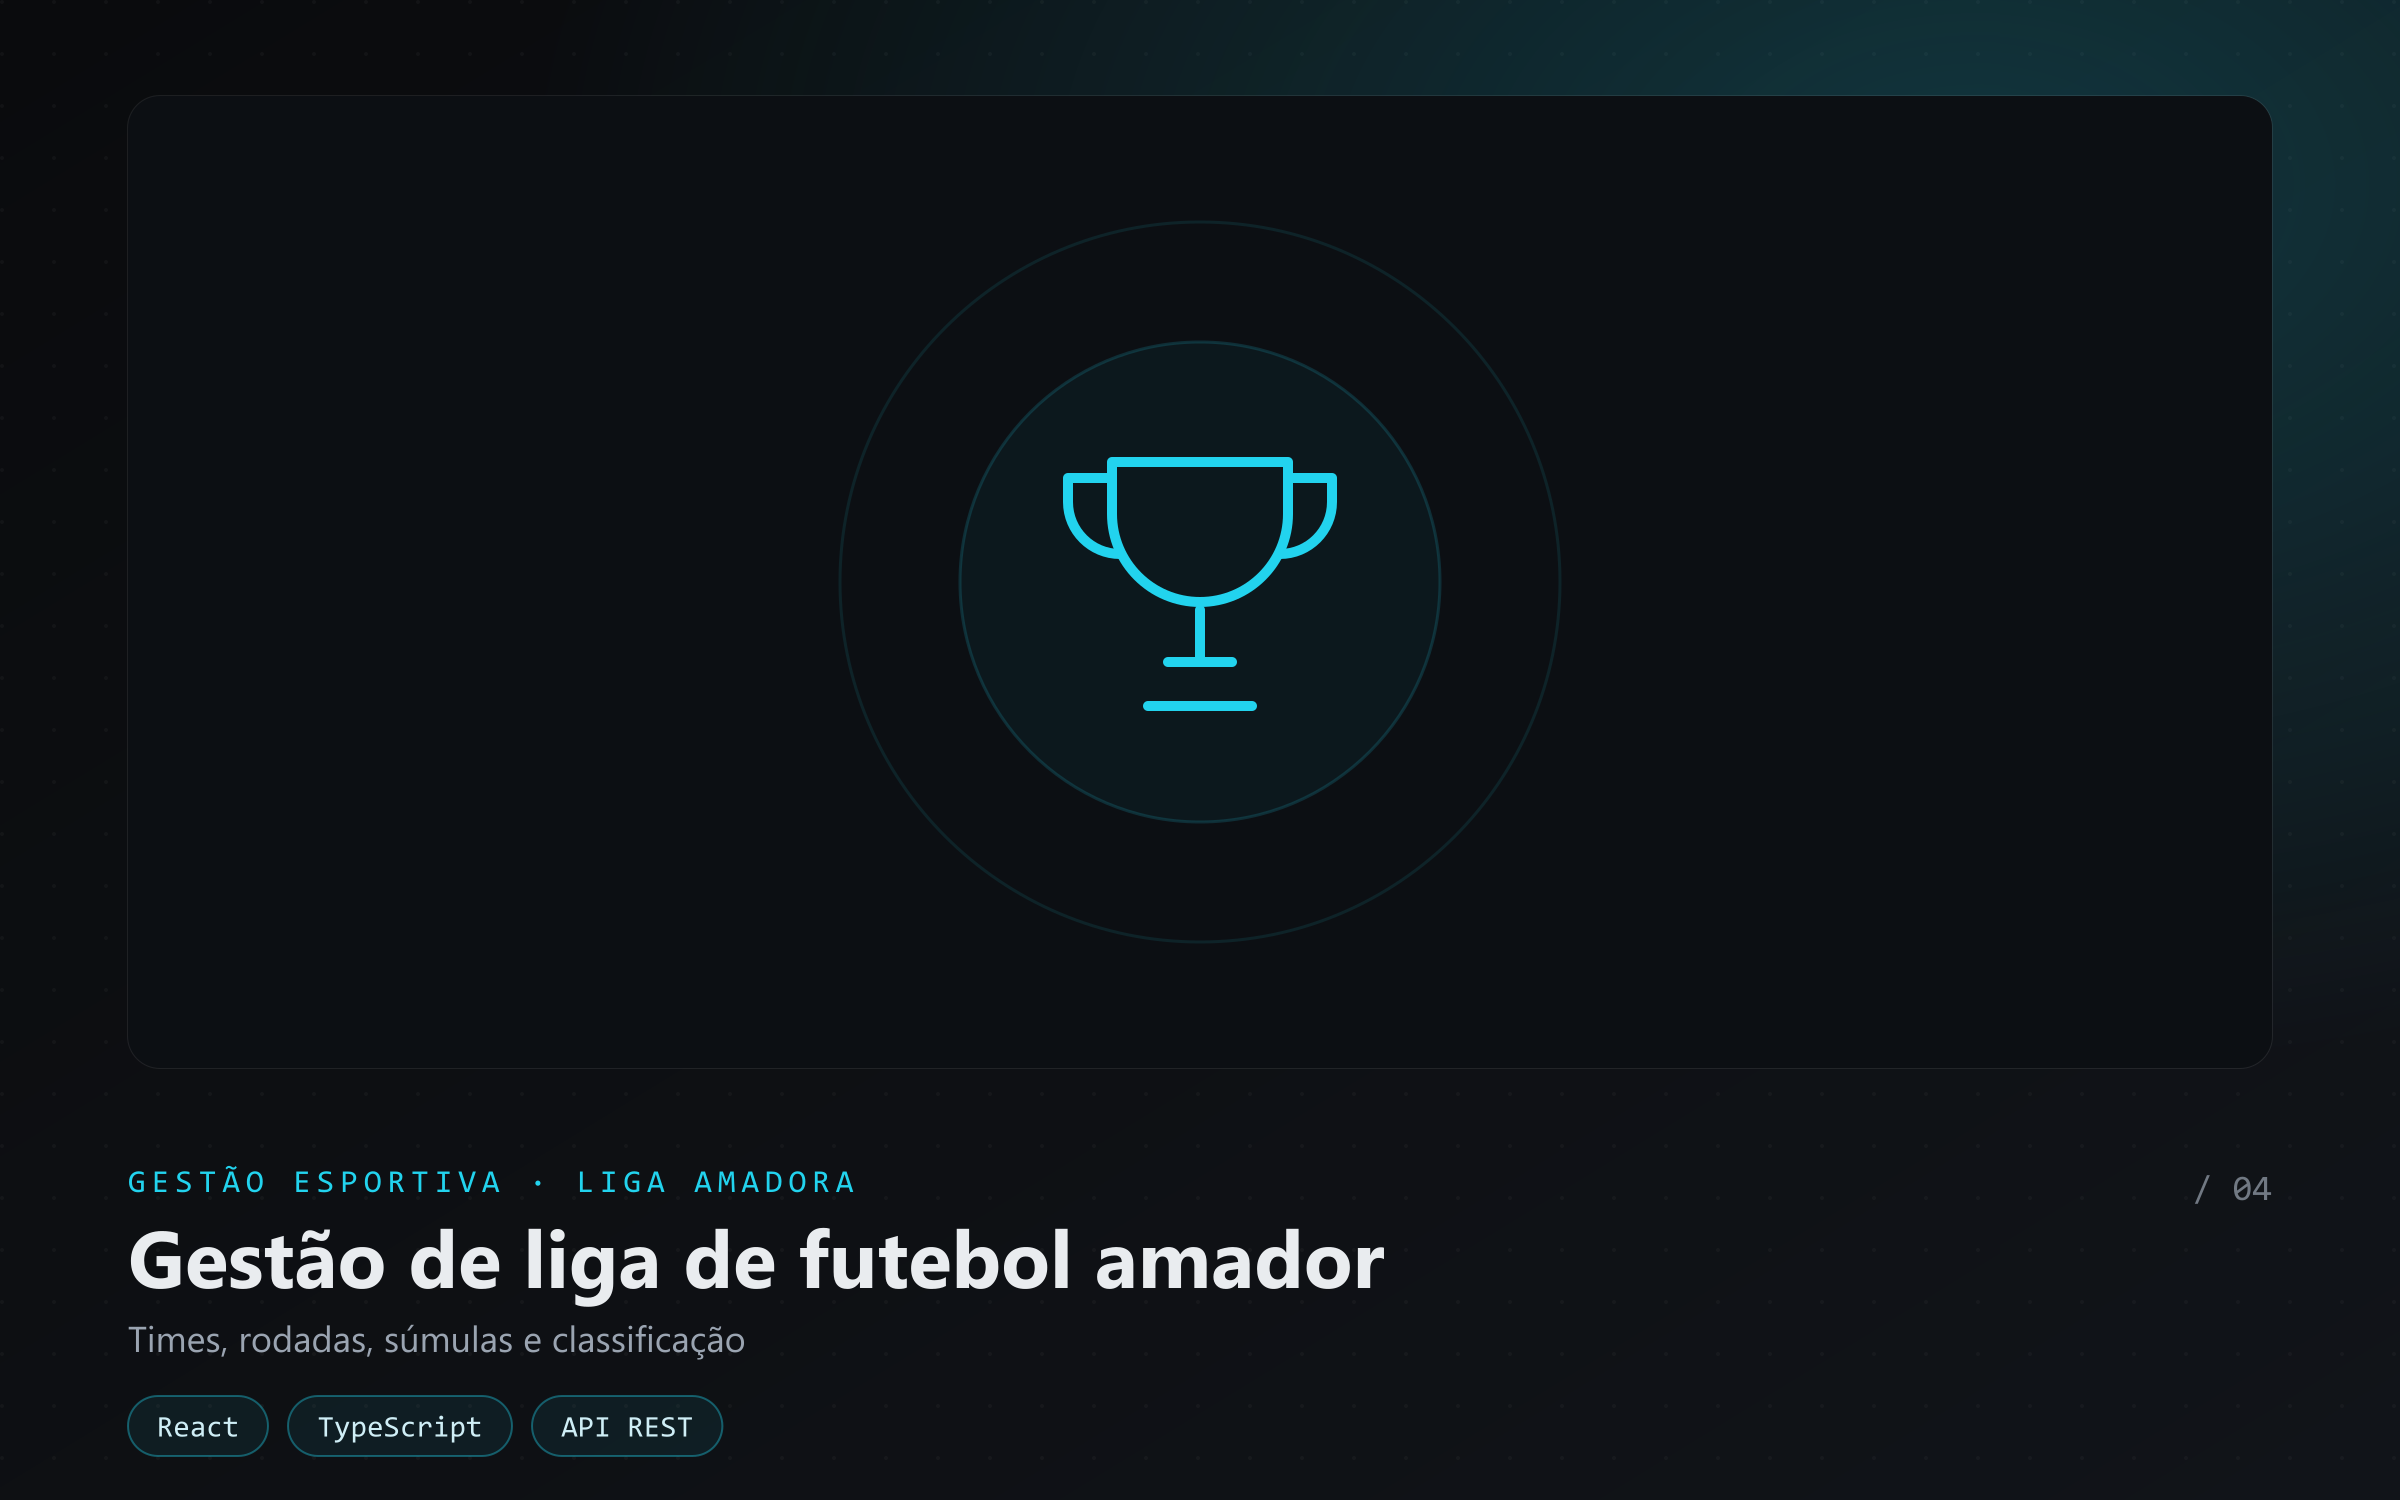
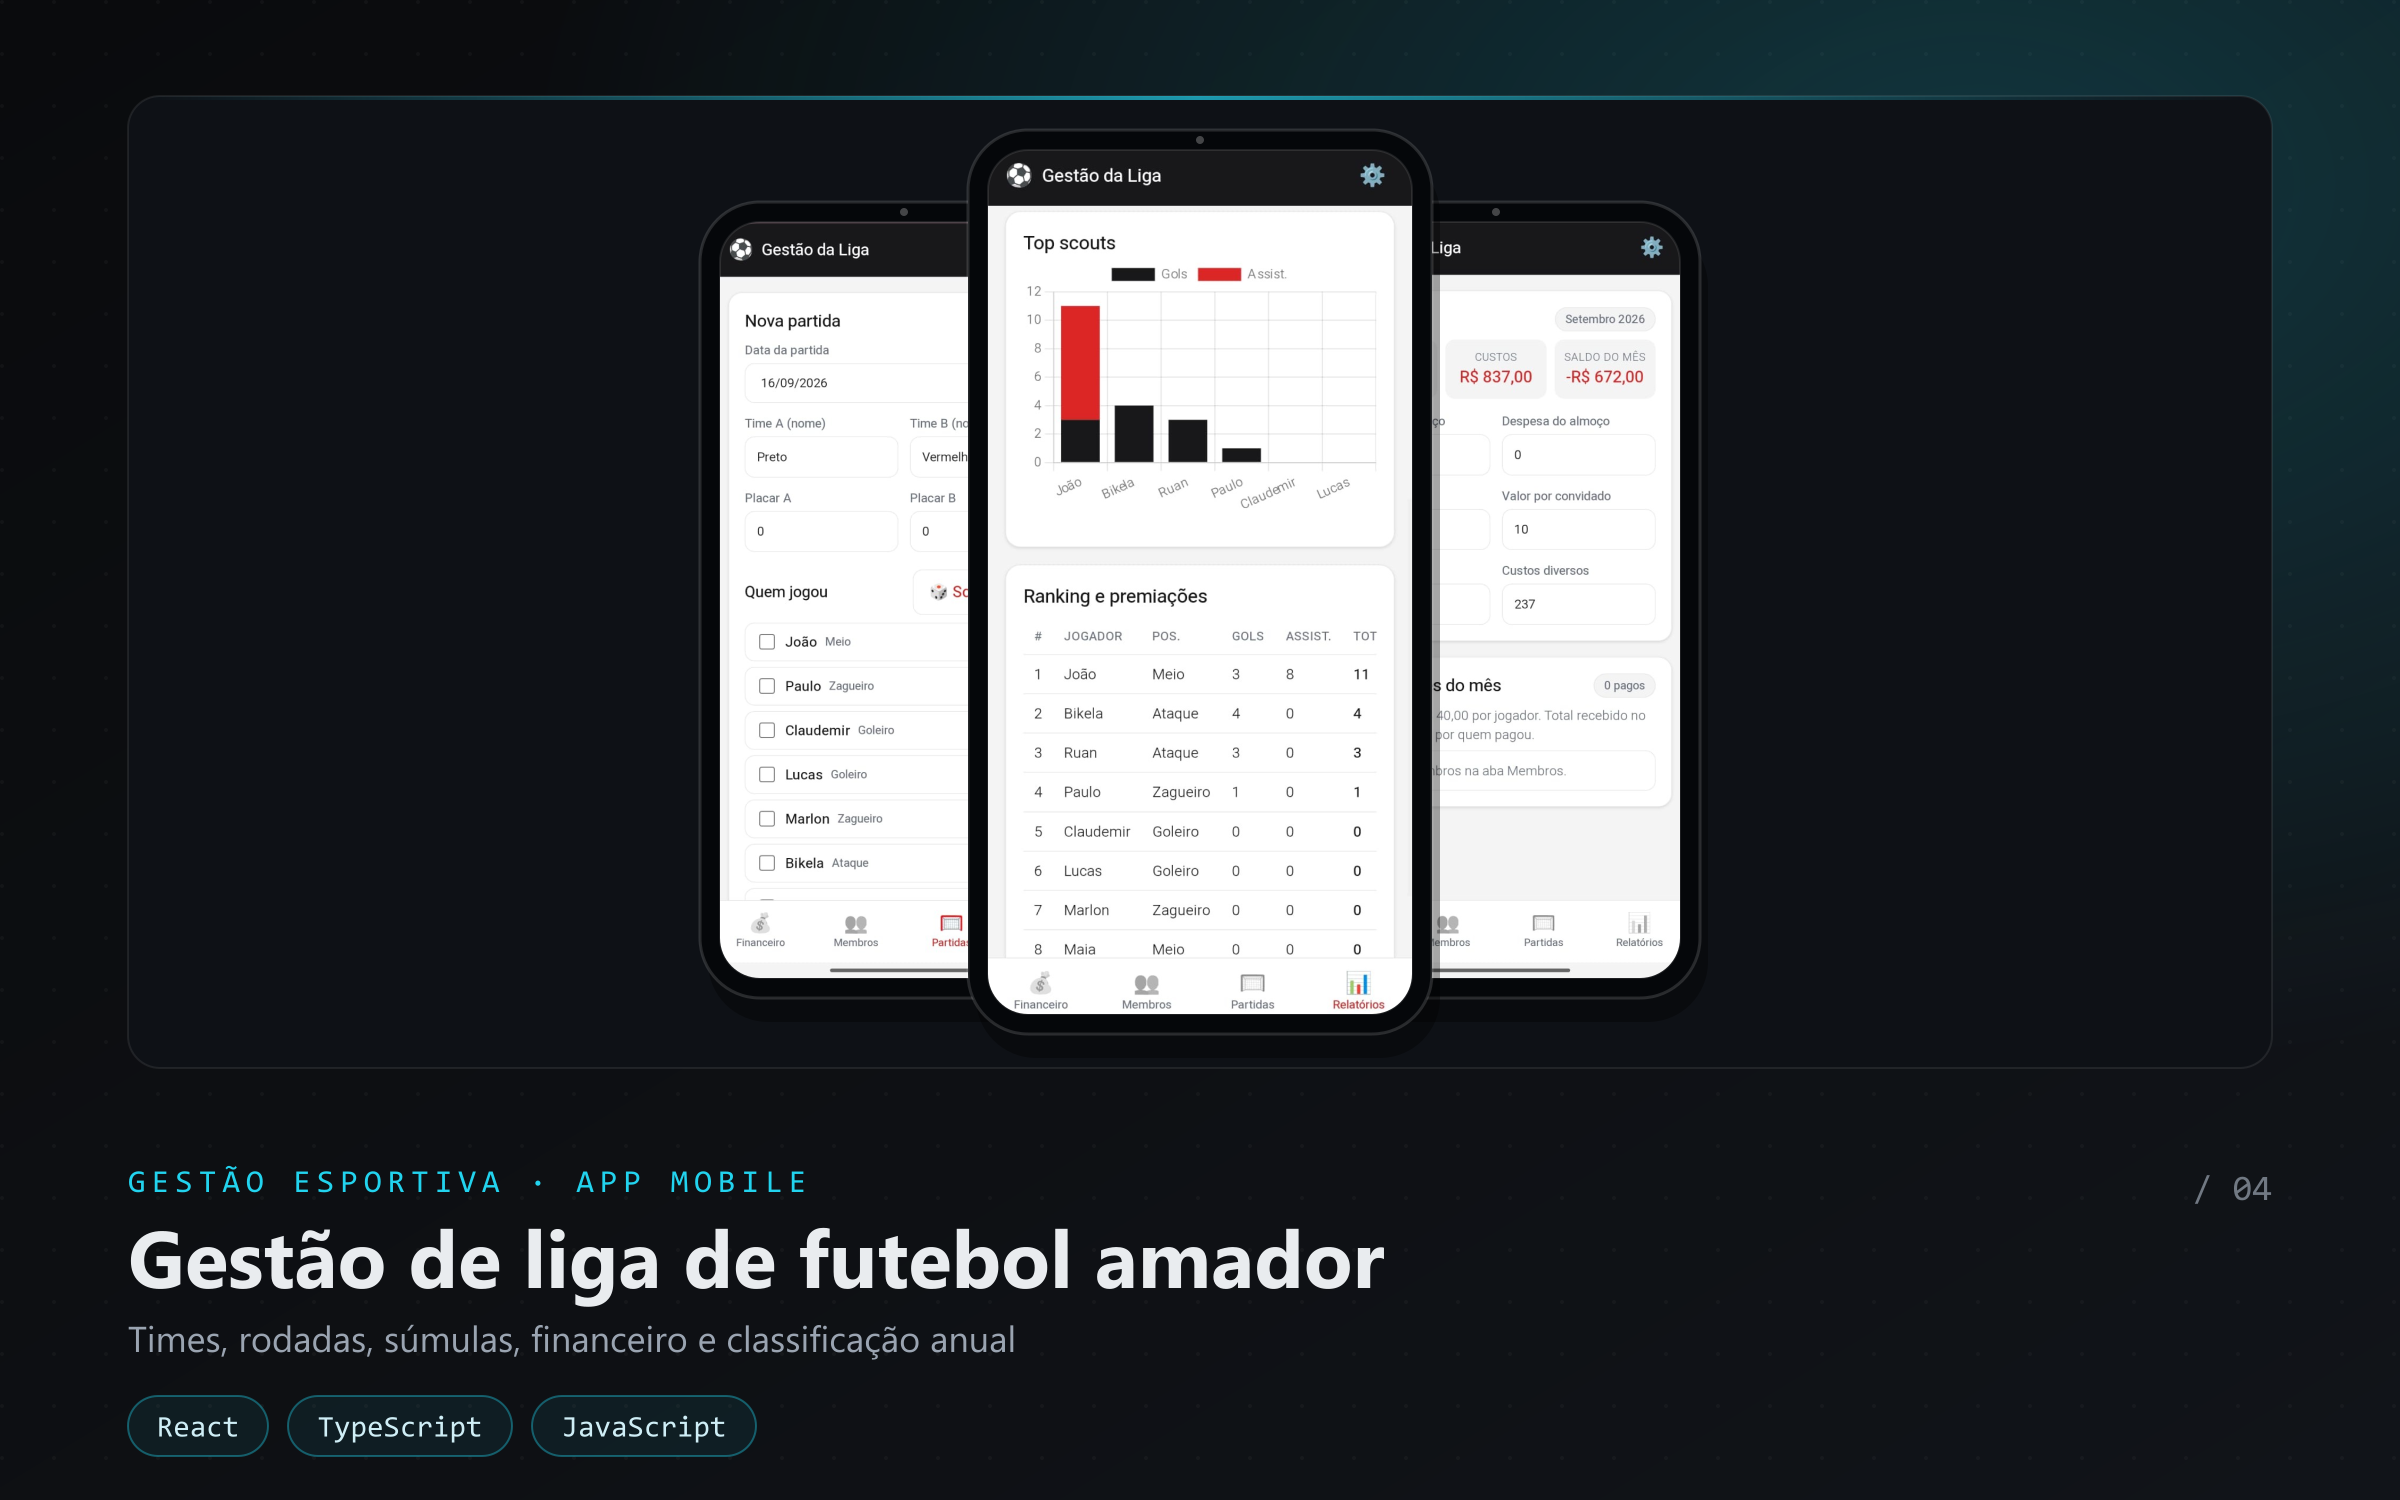
feat: usa prints reais na capa do projeto da liga
Substitui a capa abstrata por um mockup com tres telas reais do app mobile
(criacao de partida, ranking anual com grafico de scouts e financeiro),
num trio de celulares sobre o mesmo template de marca. Atualiza o coverAlt.

Changed region(s): [[0.2812, 0.0613, 0.7188, 0.6747], [0.2188, 0.8893, 0.4062, 0.9813], [0.25, 0.7667, 0.3438, 0.7973]]

diff --git a/src/content/projects/liga-futebol-amador.md b/src/content/projects/liga-futebol-amador.md
@@ -22,7 +22,7 @@ period: '03/2026 - 04/2026'
 repo: "https://github.com/joaoPCarv4lho/frontend_manager_football_league" # PLACEHOLDER
 demo: null # PLACEHOLDER
 cover: ../../assets/projects/liga.png
-coverAlt: Capa do projeto de gestão de liga de futebol amador
+coverAlt: Três telas do app de gestão da liga — criação de partida, ranking anual com gráfico de scouts e controle financeiro
 confidential: false
 ---
 
